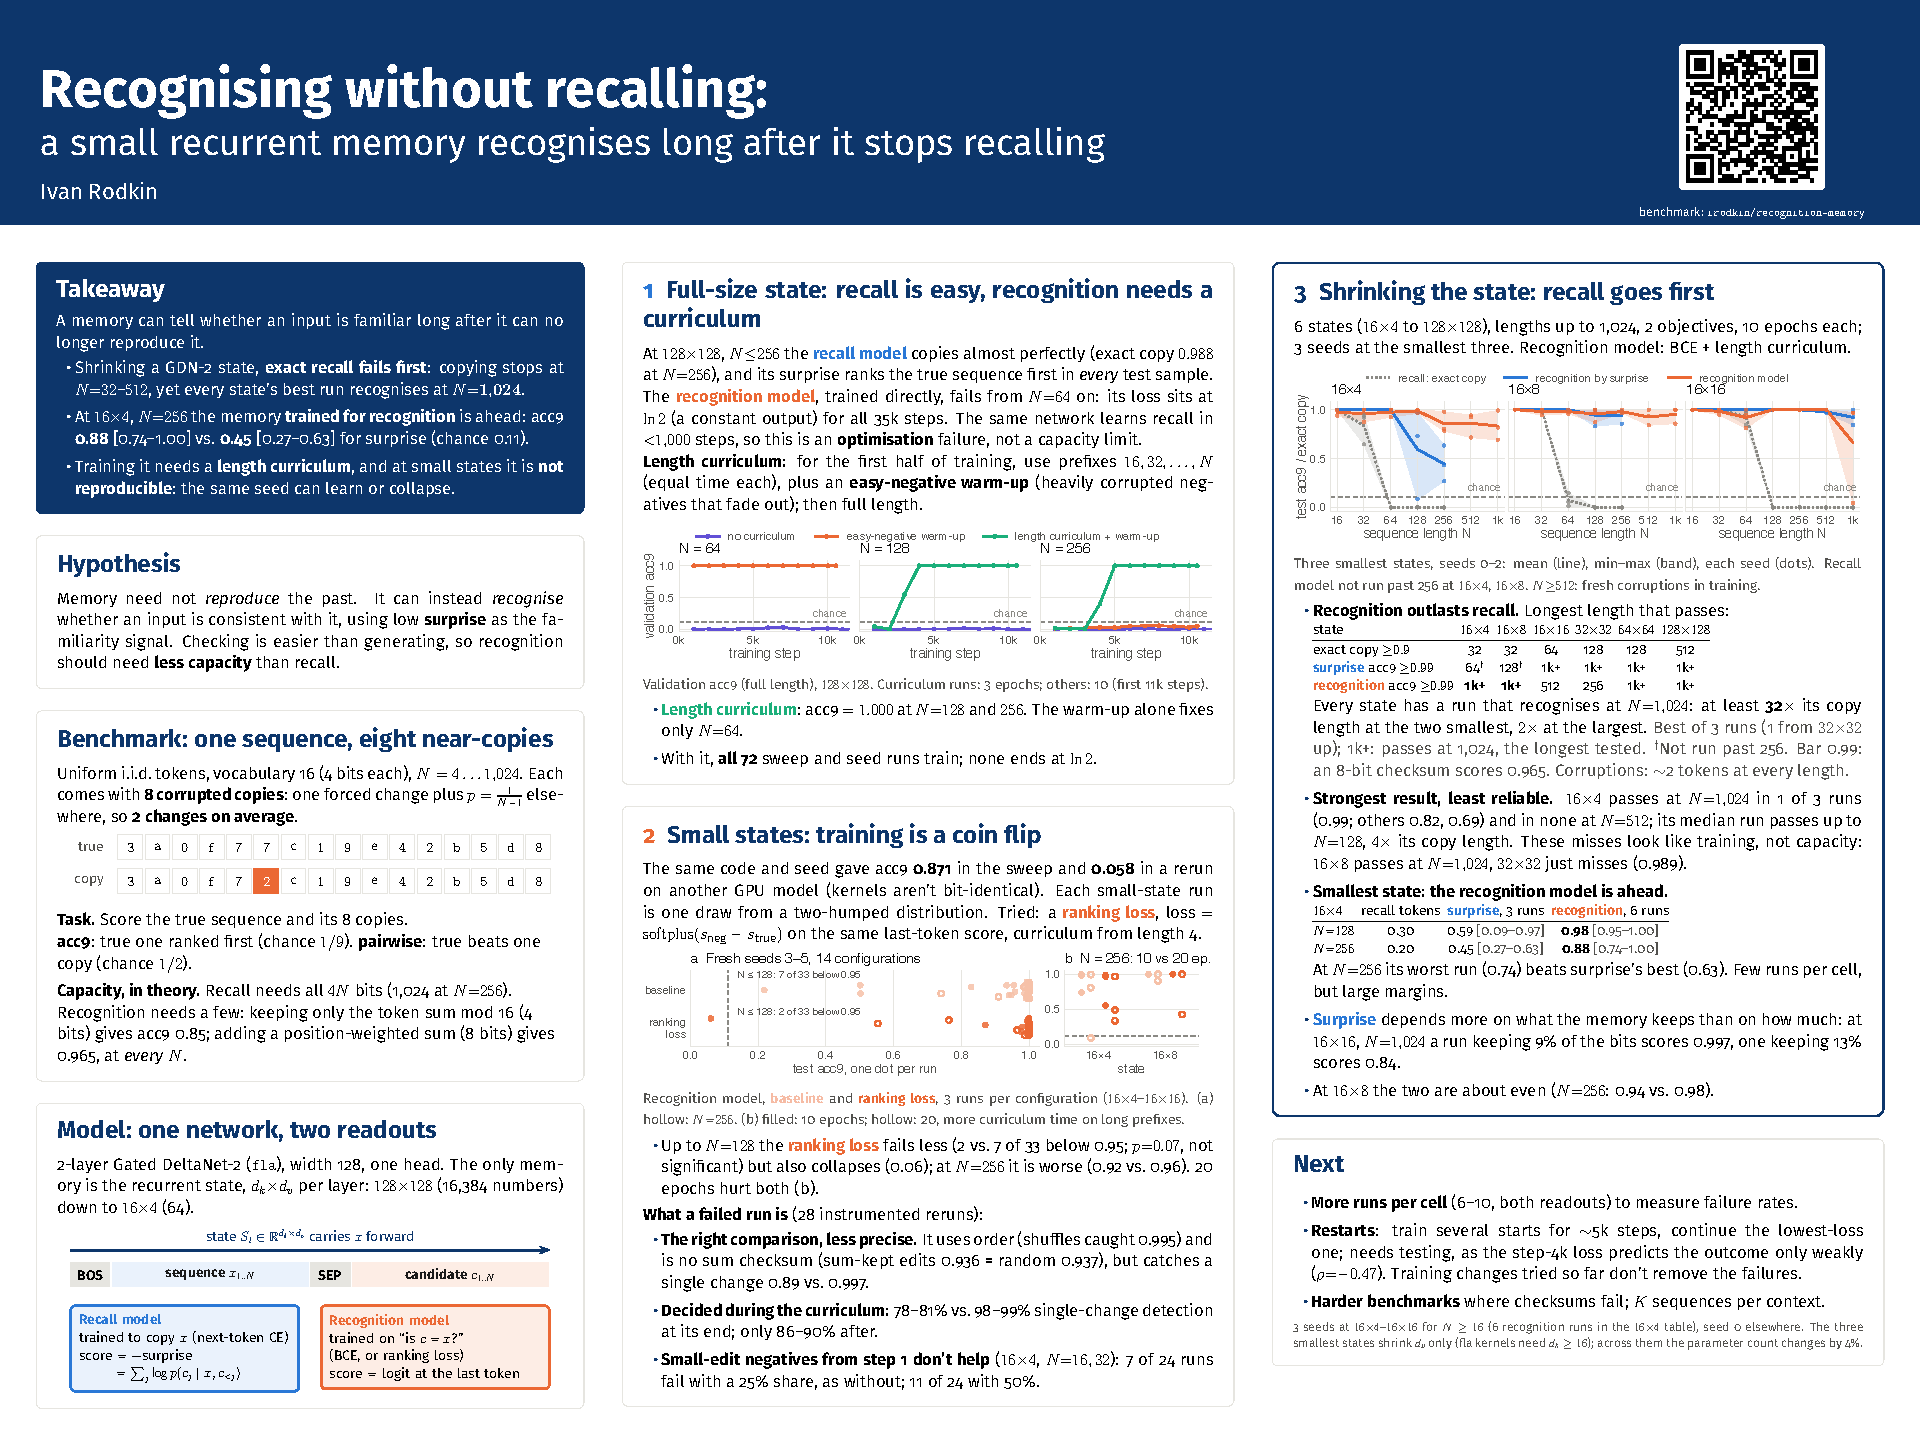
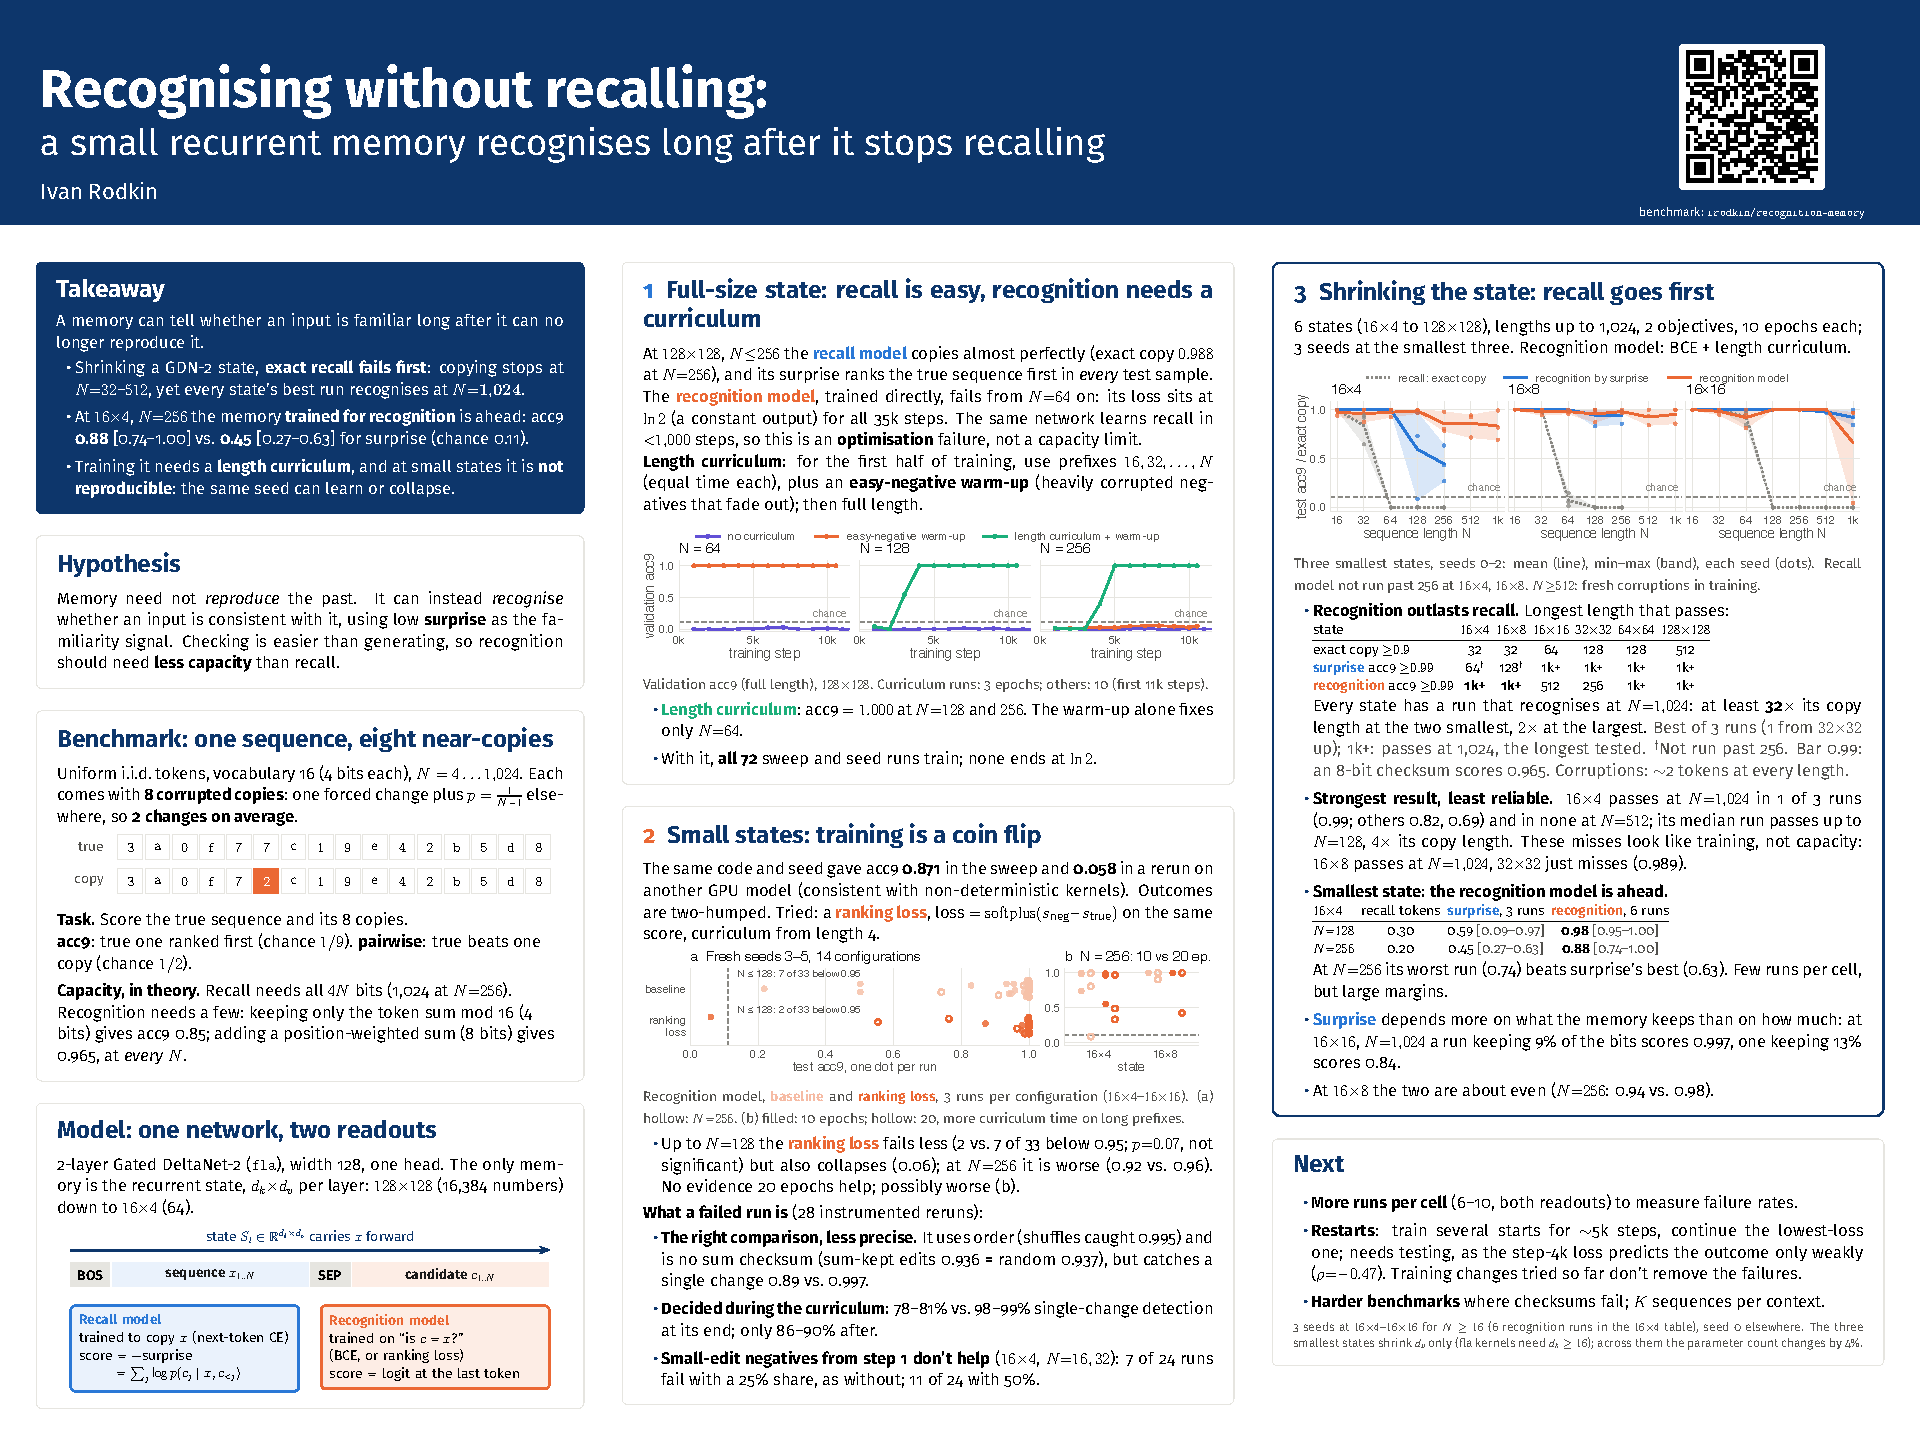
Poster: soften the kernel cause and 20-epoch claims

diff --git a/posters/neurips_poster.tex b/posters/neurips_poster.tex
@@ -165,8 +165,8 @@
 
 \begin{block}{\textcolor{recog}{2}\enspace Small states: training is a coin flip}
   The same code and seed gave acc9 \textbf{0.871} in the sweep and \textbf{0.058} in a rerun on another GPU model
-  (kernels aren't bit-identical). Each small-state run is one draw from a two-humped distribution.
-  Tried: a \RG{ranking loss}, loss $=\mathrm{softplus}(s_\text{neg}-s_\text{true})$ on the same last-token score, curriculum from length 4.
+  (consistent with non-deterministic kernels). Outcomes are two-humped.
+  Tried: a \RG{ranking loss}, loss $=\mathrm{softplus}(s_\text{neg}{-}s_\text{true})$ on the same score, curriculum from length 4.
 
   \vspace{0.15in}
   \includegraphics[width=\linewidth]{fresh.pdf}
@@ -174,7 +174,7 @@
   (a) hollow: $N{=}256$. (b) filled: 10 epochs; hollow: 20, more curriculum time on long prefixes.}
   \begin{itemize}
     \item Up to $N{=}128$ the \RG{ranking loss} fails less (2 vs.\ 7 of 33 below 0.95; $p{=}0.07$, not significant) but also collapses (0.06);
-          at $N{=}256$ it is worse (0.92 vs.\ 0.96). 20 epochs hurt both (b).
+          at $N{=}256$ it is worse (0.92 vs.\ 0.96). No evidence 20 epochs help; possibly worse (b).
   \end{itemize}
   \textbf{What a failed run is} (28 instrumented reruns):
   \begin{itemize}
